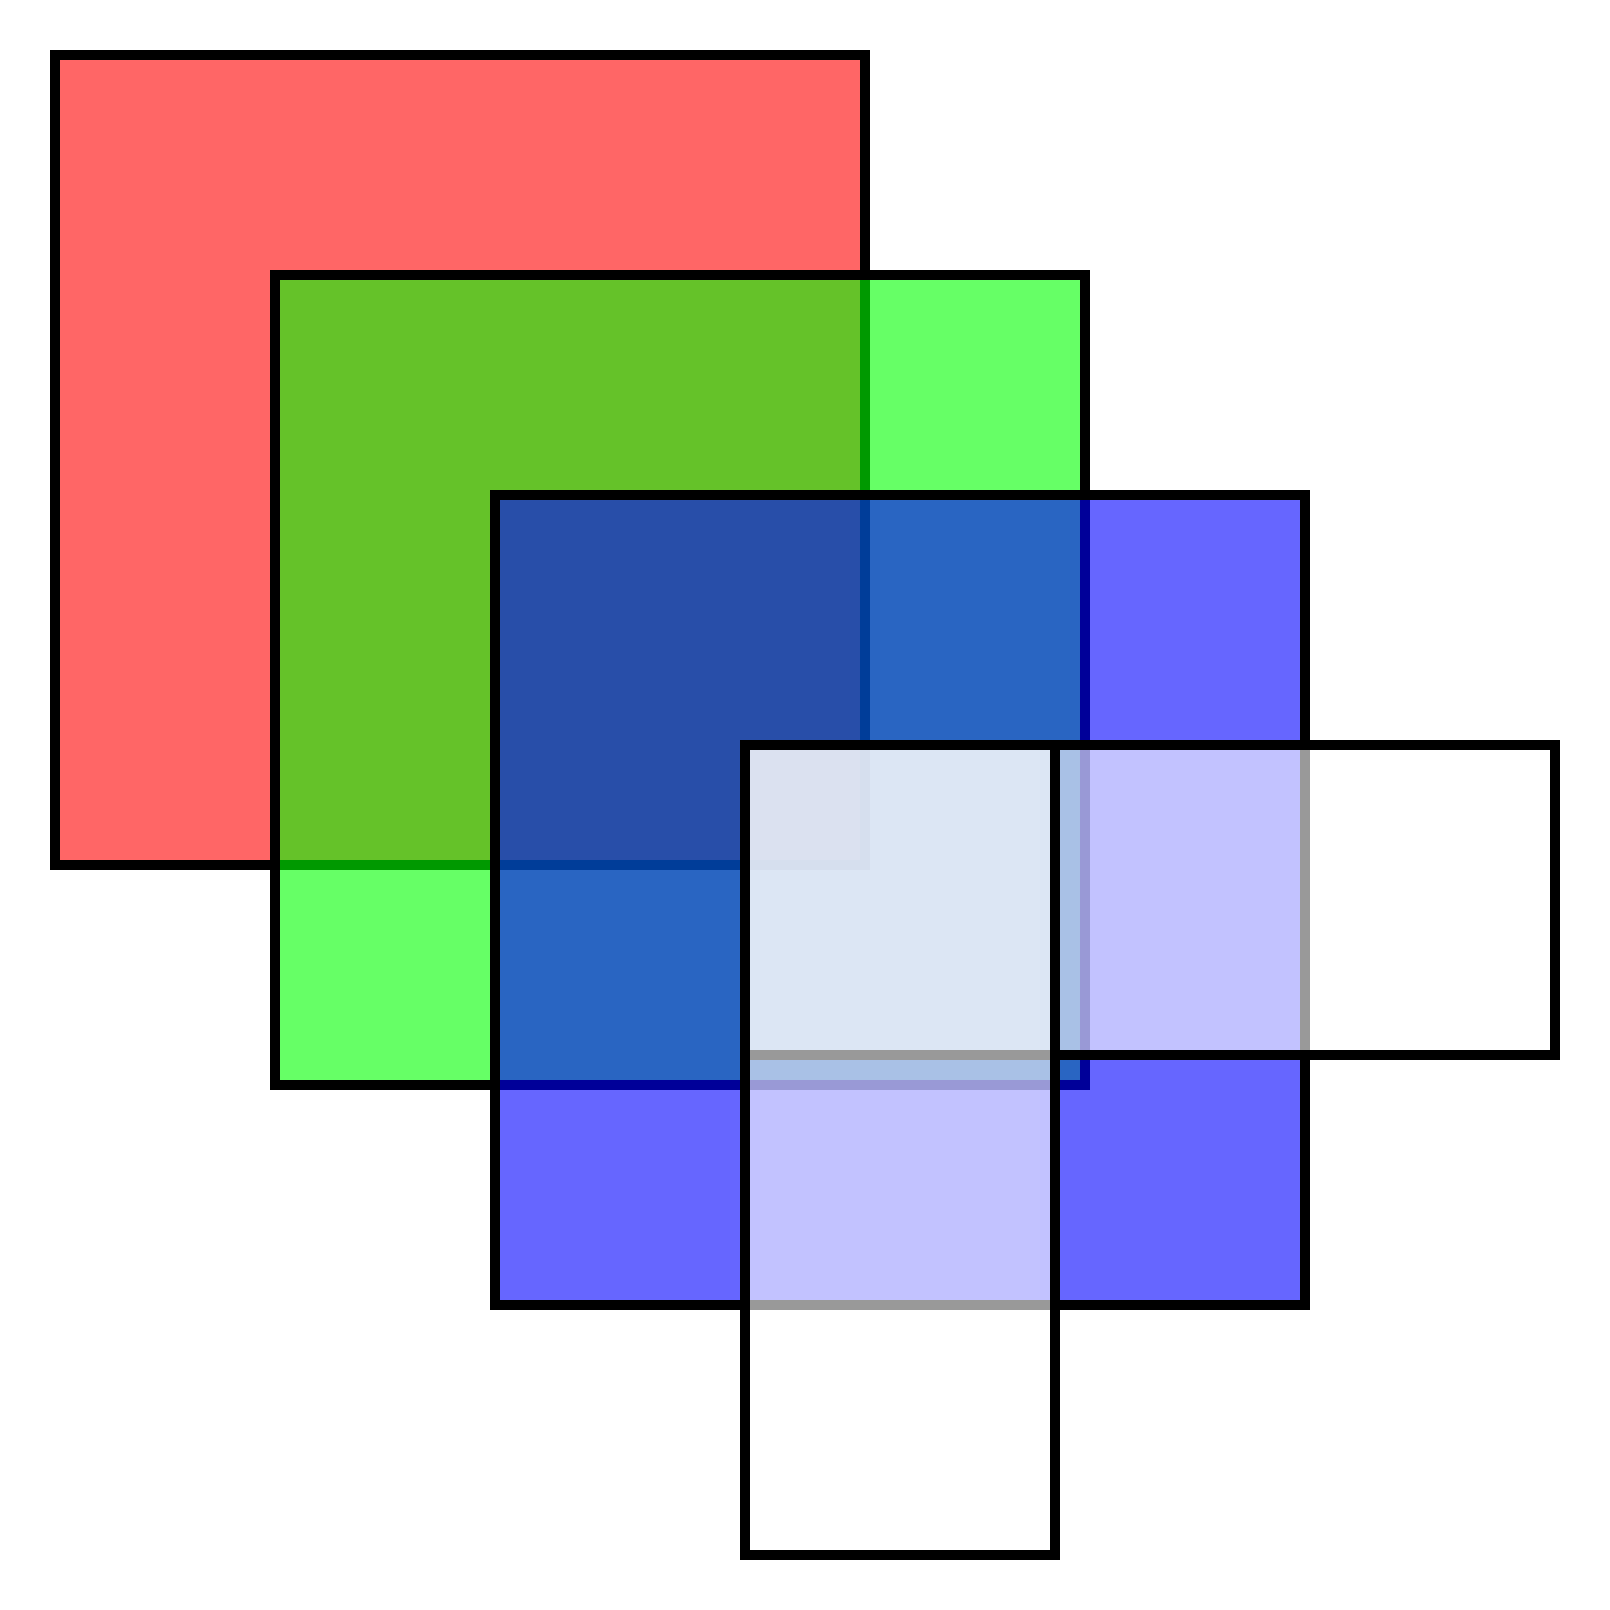
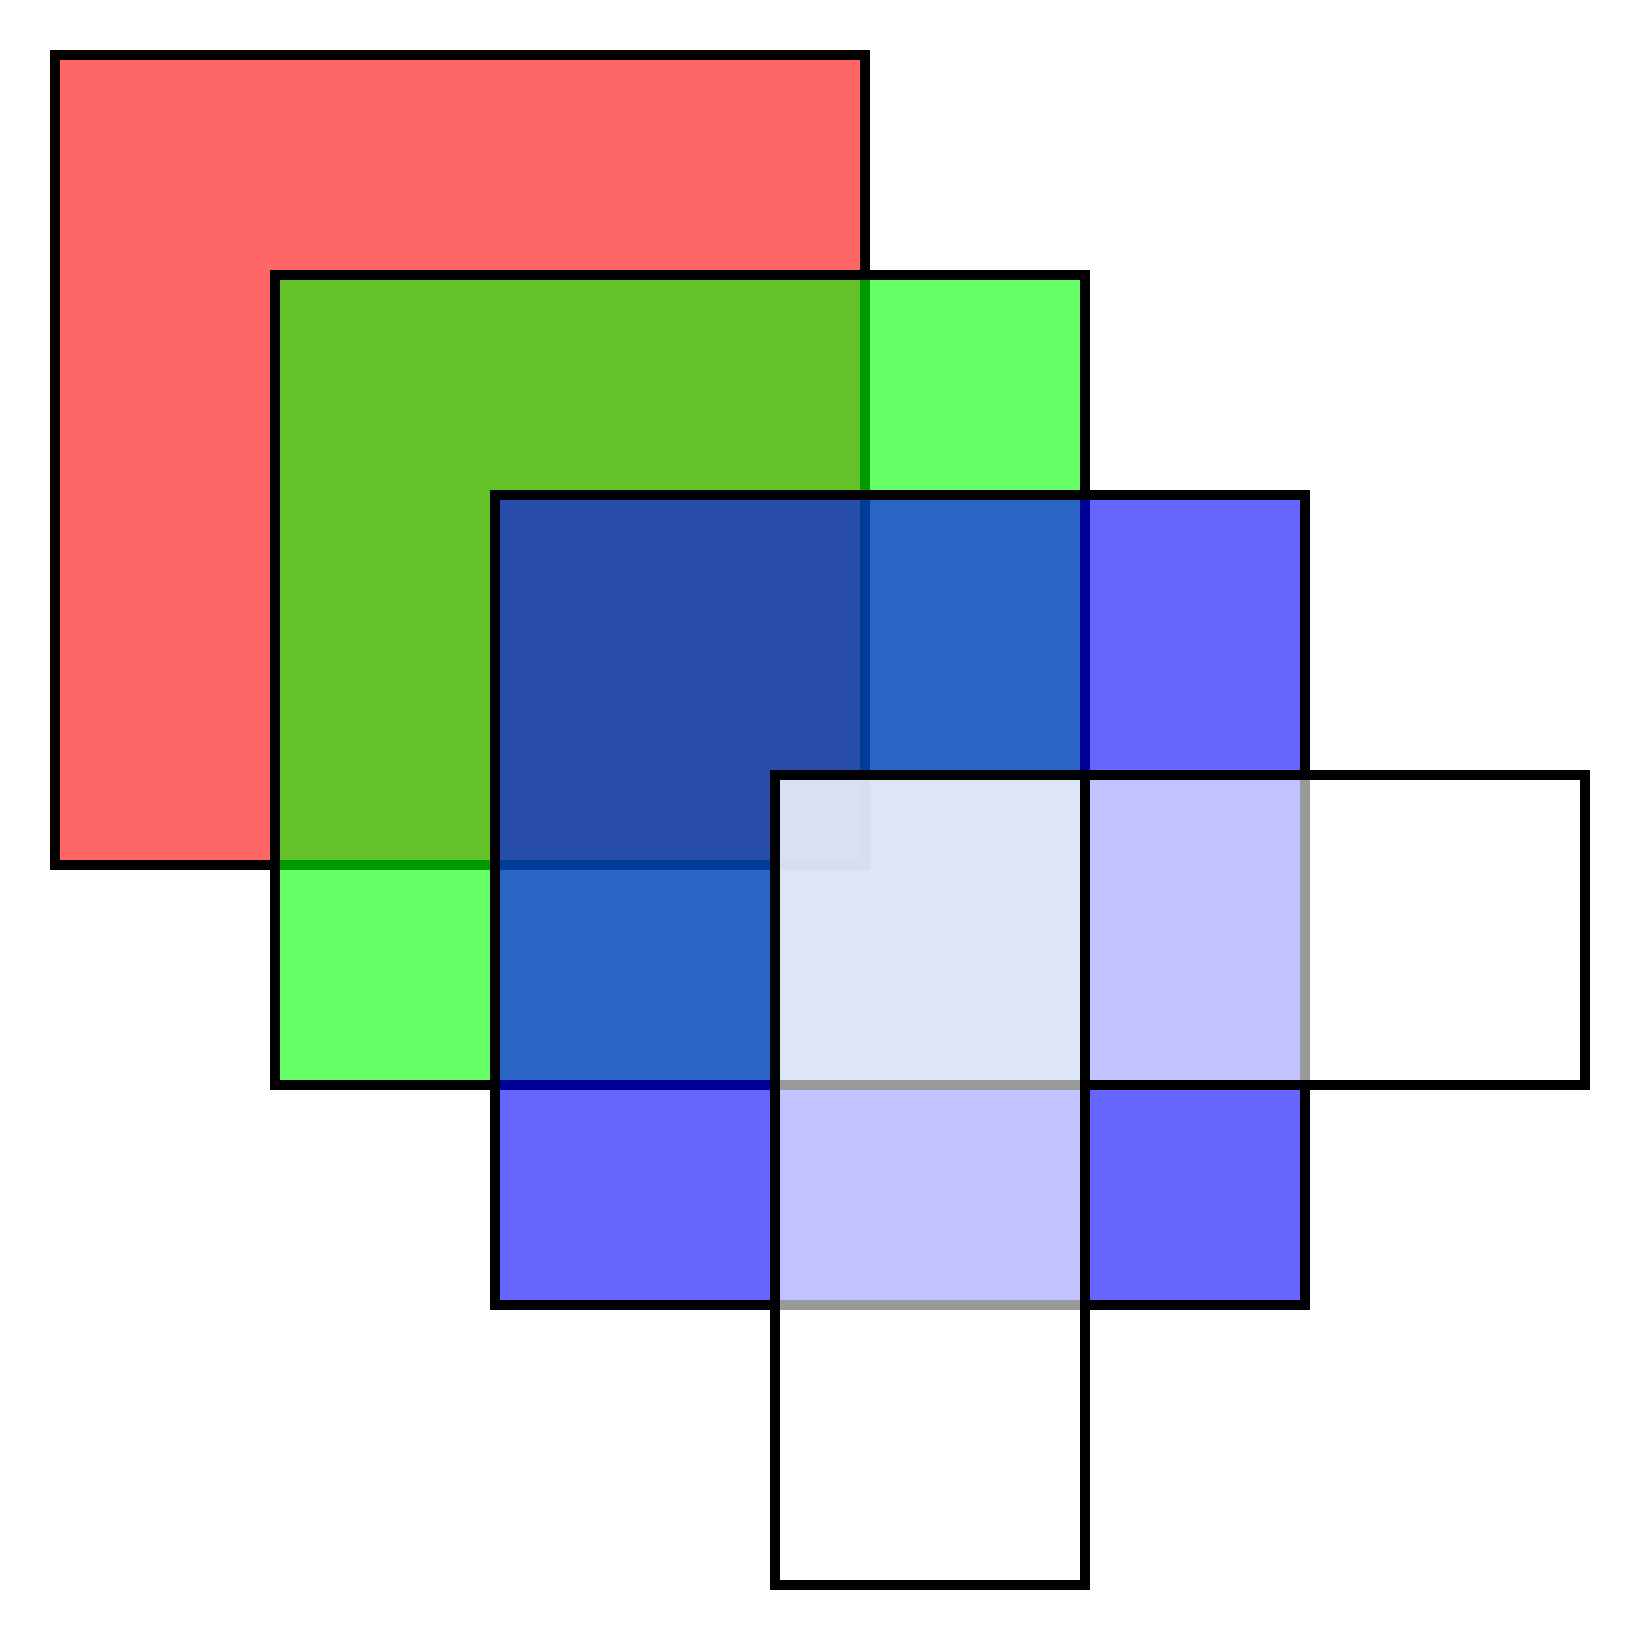
renderer: canvas: update output image:

Changed region(s): [[0.0311, 0.0311, 0.9627, 0.9627]]

diff --git a/examples/test.css b/examples/test.css
@@ -33,12 +33,12 @@ div {
 
 .blank {
     background: rgba(255, 255, 255, 0.6);
-    margin-left: 240px;
+    margin-left: 270px;
 }
 
 .blank.horizontal {
     height: 300px;
-    margin-top: 240px;
+    margin-top: 270px;
 }
 
 .blank.vertical {
